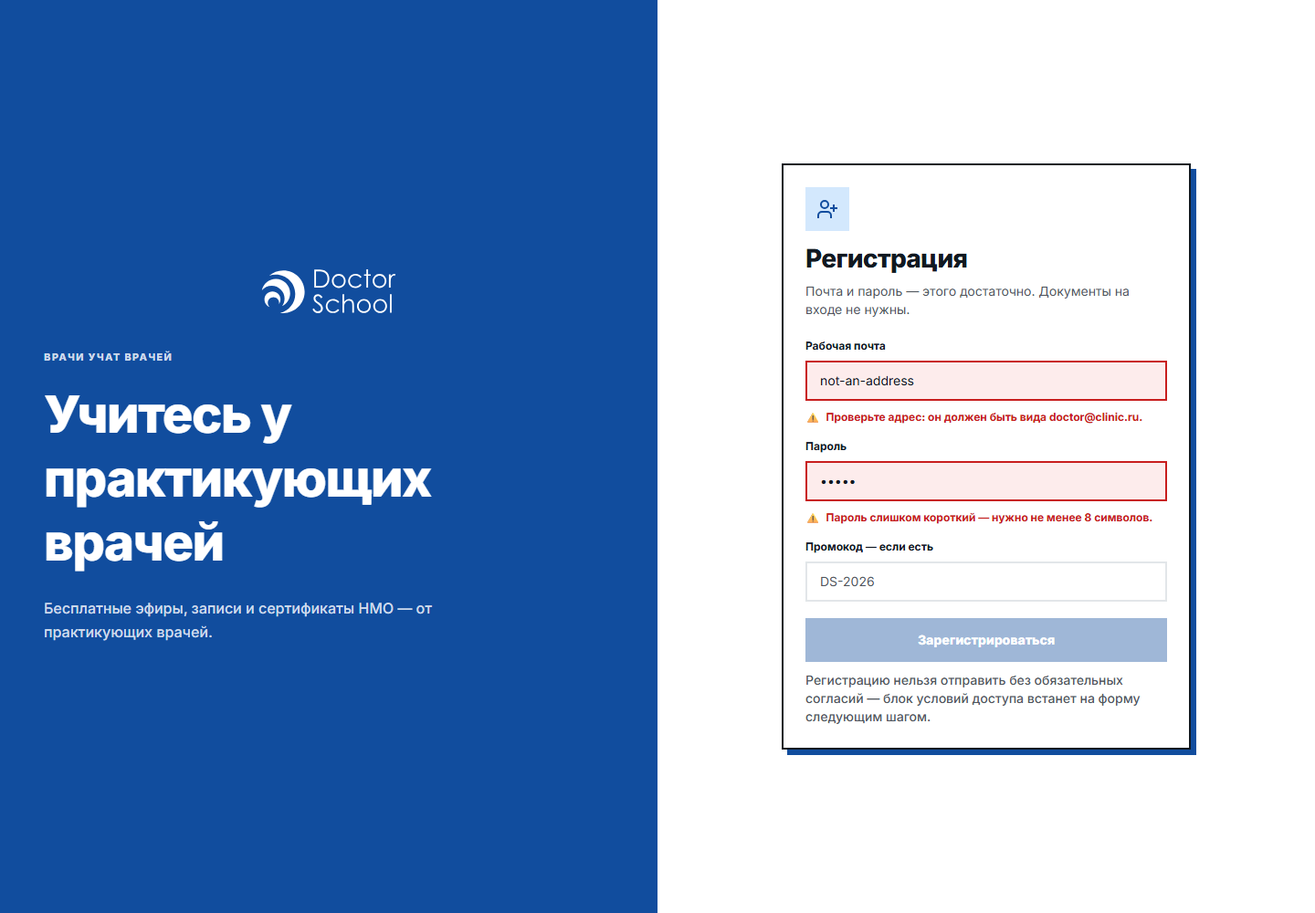
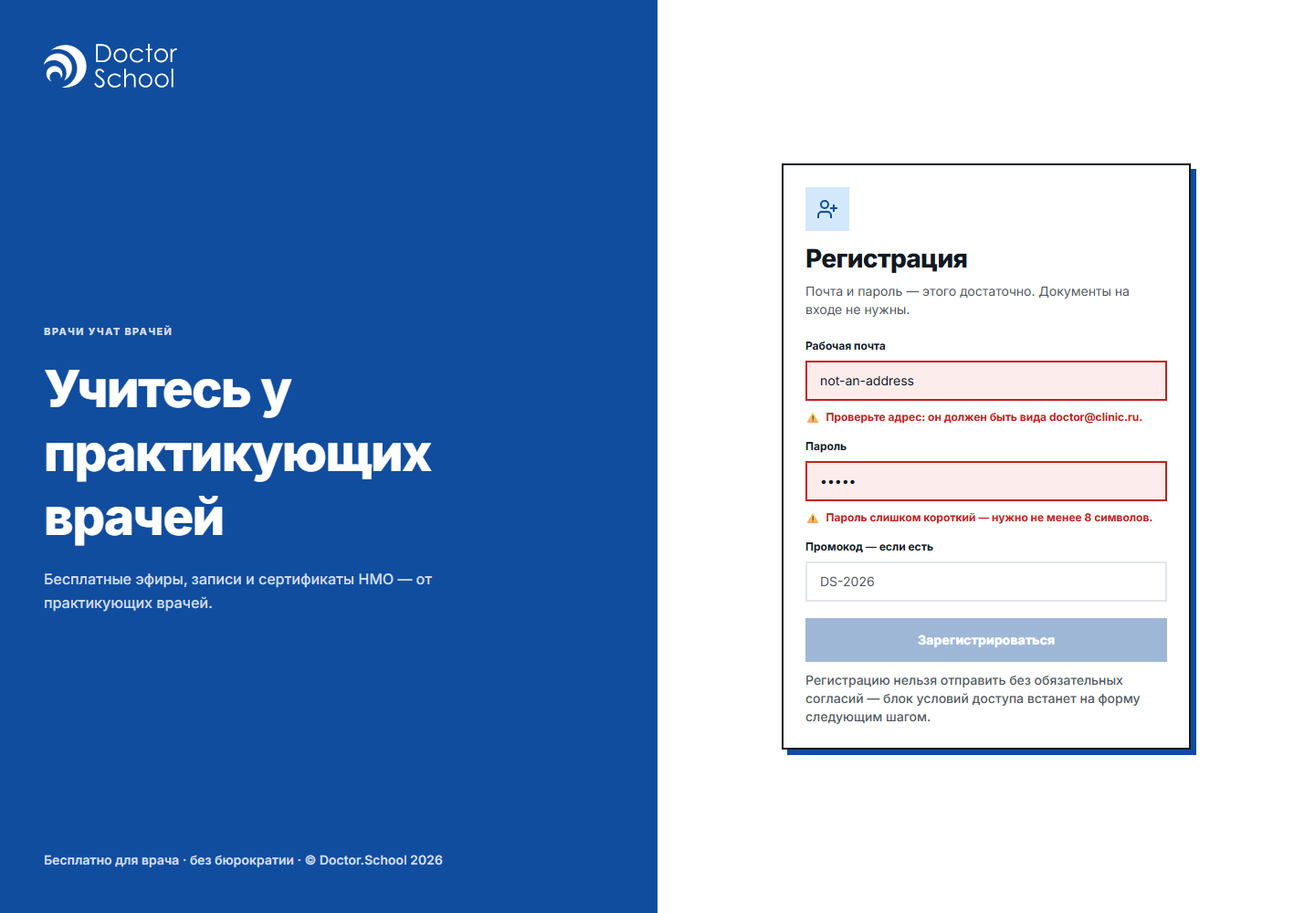
fix(1667): brand panel to canvas zones; one wordmark per viewport in the spec
Mode (a) rework on PR #1682.

- Brand panel rebuilt as the canvas's three zones: the mark pinned top-left
  (`self-start` — without it the aside's `align-items: stretch` widened the
  image box and painted the SVG centred), the value prop growing and centring
  between, and the canvas's closing line «Бесплатно для врача · без бюрократии ·
  © Doctor.School 2026» restored at the foot. It is panel content, not site
  chrome: it lives inside the brand surface and leaves with it at 390, so the
  route stays chromeless at every breakpoint.
- EARS-1 (en+ru), design §1, the scenario and the verification rows now state
  the composition the code renders and the tests pin: exactly ONE wordmark per
  viewport — the panel mark at and above `layout:`, the form-column lockup
  below it, where the panel does not render (#237/#275). The previous wording
  asserted a form-column wordmark that the block hides at desktop.
- New EARS-1.9 pins the three panel zones — mark at the panel top and flush
  left with the eyebrow, closing line at the foot, value prop between them.
- Desktop light/dark and the interactions frame re-shot; the mobile pair is
  byte-identical (the panel does not render there).

diff --git a/apps/doctor/components/auth-shell.tsx b/apps/doctor/components/auth-shell.tsx
@@ -6,9 +6,13 @@ import { AuthLayout } from "@ds/design-system/blocks";
 /**
  * `<AuthShell>` — the doctor-storefront auth frame: the CHROMELESS page the
  * `design-source/auth.dc.html` `#d-register` artboard draws. The canvas composes
- * the auth screens as a full-viewport split — brand panel beside a form column
- * that carries the wordmark at its top and the card centred on the vertical axis
- * — and it carries NO site header, navigation or footer. That absence is the
+ * the auth screens as a full-viewport split — a brand panel (mark pinned top-left,
+ * value prop centred in the remaining space, the panel's own footer line) beside a
+ * form column holding the card centred on the vertical axis — and it carries NO site
+ * header, navigation or footer. Exactly ONE wordmark shows per viewport (#237/#275):
+ * the panel mark above the `layout:` breakpoint, the form-column lockup below it,
+ * where the panel is not rendered at all — the canvas likewise draws its brand panel
+ * on the desktop artboard only. The chromelessness is the
  * design decision, not an omission: the door is a single-CTA surface, and the
  * storefront's own nav cluster would lead the doctor away from the form.
  *
@@ -59,35 +63,53 @@ export function AuthShell({ children }: { children: ReactNode }) {
         />
       }
       aside={
-        <div
-          data-testid="auth-brand-panel"
-          className="flex flex-1 flex-col justify-center"
-        >
-          {/* Decorative brand mark — the headline carries the accessible name,
-              so the panel logo is presentational (empty alt). */}
+        /* The canvas panel (`auth.dc.html`, brand panel) is a flex column of THREE
+           zones — mark, `flex:1` value-prop, footer — and `apps/portal` mirrors the
+           same three into the block's `justify-between` aside. This wrapper is that
+           column (it also carries the panel testid); it takes `flex-1` so it fills
+           the aside and distributes the zones itself. */
+        <div data-testid="auth-brand-panel" className="flex flex-1 flex-col">
+          {/* Zone 1 — decorative brand mark, pinned to the TOP of the panel and flush
+              LEFT exactly as the canvas pins it (`align-self:flex-start`): without
+              `self-start` the aside's default `align-items: stretch` widens the image
+              box to the column and the SVG paints centred, out of line with the
+              left-flush copy beneath it. The headline carries the accessible name, so
+              the mark is presentational (empty alt). */}
           <Image
             src="/brand/logo-white.svg"
             alt=""
             width={500}
             height={164}
             unoptimized
-            className="mb-10 h-12 w-auto"
+            className="h-12 w-auto self-start"
             data-testid="auth-panel-wordmark"
           />
-          <p className="mb-5 text-eyebrow font-extrabold uppercase tracking-micro text-primary-surface-muted">
-            Врачи учат врачей
-          </p>
-          <p className="max-w-lg text-4xl font-extrabold leading-tight tracking-tight text-balance">
-            Учитесь у практикующих врачей
-          </p>
-          <p className="mt-6 max-w-md text-base font-medium leading-relaxed text-primary-surface-muted">
-            {/*
-              The canvas reads «… от практикующих врачей 38 школ.» The count has
-              no source in the read model, and the 017 precedent
-              (`storefront-hero.tsx` / `scale-counters.tsx`) omits a counter with
-              no source rather than hardcoding one. Dropped, not zeroed.
-            */}
-            Бесплатные эфиры, записи и сертификаты НМО — от практикующих врачей.
+          {/* Zone 2 — value prop, growing into the space between mark and footer and
+              centring itself there, so the panel reads as the canvas's deliberate
+              three-zone split rather than a block with a void above it. */}
+          <div className="flex flex-1 flex-col justify-center gap-5">
+            <p className="text-eyebrow font-extrabold uppercase tracking-micro text-primary-surface-muted">
+              Врачи учат врачей
+            </p>
+            <p className="max-w-lg text-4xl font-extrabold leading-tight tracking-tight text-balance">
+              Учитесь у практикующих врачей
+            </p>
+            <p className="max-w-md text-base font-medium leading-relaxed text-primary-surface-muted">
+              {/*
+                The canvas reads «… от практикующих врачей 38 школ.» The count has
+                no source in the read model, and the 017 precedent
+                (`storefront-hero.tsx` / `scale-counters.tsx`) omits a counter with
+                no source rather than hardcoding one. Dropped, not zeroed.
+              */}
+              Бесплатные эфиры, записи и сертификаты НМО — от практикующих врачей.
+            </p>
+          </div>
+          {/* Zone 3 — panel footer, verbatim from the canvas. It is the panel's own
+              closing line, not site chrome: the route stays chromeless (no storefront
+              header/footer/nav), and this line lives inside the brand panel, which the
+              block renders only above `layout:`. */}
+          <p className="text-sm font-semibold text-primary-surface-muted">
+            Бесплатно для врача · без бюрократии · © Doctor.School 2026
           </p>
         </div>
       }

diff --git a/apps/doctor/e2e/register-layout.spec.ts b/apps/doctor/e2e/register-layout.spec.ts
@@ -250,6 +250,57 @@ test.describe("021 EARS-1: the vertical axis", () => {
       `vertical centring: ${above}px above vs ${below}px below`,
     ).toBeLessThanOrEqual(48);
   });
+
+  test("021 EARS-1.9: the brand panel is the canvas's three zones — mark pinned top-left, value prop centred, closing line at the foot", async ({
+    page,
+  }) => {
+    await page.goto("/register");
+
+    const panel = page.getByTestId("auth-brand-panel");
+    const mark = page.getByTestId("auth-panel-wordmark");
+    const eyebrow = panel.getByText("Врачи учат врачей");
+    const closing = panel.getByText(
+      "Бесплатно для врача · без бюрократии · © Doctor.School 2026",
+    );
+
+    await expect(closing).toBeVisible();
+
+    const panelBox = (await panel.boundingBox())!;
+    const markBox = (await mark.boundingBox())!;
+    const eyebrowBox = (await eyebrow.boundingBox())!;
+    const closingBox = (await closing.boundingBox())!;
+
+    // Zone 1 — the mark sits at the TOP of the panel, not mid-panel. The canvas
+    // pins it with `align-self:flex-start`; a centred mark would leave a void
+    // above it, which at this height is hundreds of px, so a generous bound
+    // still separates the two layouts decisively.
+    expect(
+      markBox.y - panelBox.y,
+      `mark top offset inside the panel: ${markBox.y - panelBox.y}px`,
+    ).toBeLessThanOrEqual(80);
+
+    // …and FLUSH LEFT, in line with the copy beneath it. Without `self-start`
+    // the stretched image box centres the SVG and this alignment breaks.
+    expect(
+      Math.abs(markBox.x - eyebrowBox.x),
+      `mark left ${markBox.x}px vs eyebrow left ${eyebrowBox.x}px`,
+    ).toBeLessThanOrEqual(2);
+
+    // Zone 3 — the closing line is the panel's own last zone, at its foot. It is
+    // panel content, not site chrome: 1.4 separately pins that no `footer`
+    // element exists anywhere in the document, and 1.7 that it leaves with the
+    // panel at 390.
+    const belowClosing = panelBox.y + panelBox.height - (closingBox.y + closingBox.height);
+    expect(
+      belowClosing,
+      `space under the closing line: ${belowClosing}px`,
+    ).toBeLessThanOrEqual(80);
+
+    // Zone 2 — the value prop occupies the space between them, so the mark and
+    // the closing line are genuinely separated rather than stacked.
+    expect(closingBox.y).toBeGreaterThan(eyebrowBox.y);
+    expect(eyebrowBox.y).toBeGreaterThan(markBox.y + markBox.height);
+  });
 });
 
 test.describe("021 EARS-1: the 390 collapse", () => {

diff --git a/apps/docs/content/specs/features/021-doctor-registration/021-requirements-ru.md b/apps/docs/content/specs/features/021-doctor-registration/021-requirements-ru.md
@@ -213,7 +213,7 @@ lang: ru
 
 > Плоская нумерация по ADR-0006 §4. Каждый пункт покрыт в `021-scenarios.feature`, и каждый реализует одну или несколько историй PRD, кроме **EARS-19**: он владеет обязательством, унаследованным от фичи 003, а не пользовательской историей, и прямо говорит это вместо трассы `realizes:`.
 
-- **EARS-1** _(realizes: US-1, US-2, US-22)_ — Когда посетитель открывает `#d-register` на `doctor.school`, витрина должна отрисовать поверхность регистрации бесхромной сплит-композицией завендоренного канваса `auth` — маршрутом приложения витрины **вне** оболочки фичи 017, **без шапки, навигации и подвала витрины вообще**, с вордмарком над колонкой формы и карточкой, выровненной по центру вертикали, — `access: public`, запрашивая **почту, пароль и необязательный промокод и ничего больше** — ни контрола загрузки, ни поля файла, ни диплома, ни СНИЛС, ни связанного с документами копирайта ни в одном состоянии поверхности, — собранной из примитивов `@ds/design-system` со стилизацией только токенами и состояниями поля, фокуса и валидации из канваса, не определяя собственных шапки, навигации и подвала — дверь это поверхность одного CTA, и любой блок уводящих ссылок на ней уводит врача от формы, — и не держа частной копии ни примитива формы, ни рамки авторизации, которую уже рисует Академия.
+- **EARS-1** _(realizes: US-1, US-2, US-22)_ — Когда посетитель открывает `#d-register` на `doctor.school`, витрина должна отрисовать поверхность регистрации бесхромной сплит-композицией завендоренного канваса `auth` — маршрутом приложения витрины **вне** оболочки фичи 017, **без шапки, навигации и подвала витрины вообще**, отрисовывая ровно **один вордмарк на вьюпорт** — прижатым к верхнему краю брендовой панели на широкой раскладке и над карточкой в колонке формы на узкой, где панель не рисуется вовсе, — и карточкой, выровненной по центру вертикали колонки формы, — `access: public`, запрашивая **почту, пароль и необязательный промокод и ничего больше** — ни контрола загрузки, ни поля файла, ни диплома, ни СНИЛС, ни связанного с документами копирайта ни в одном состоянии поверхности, — собранной из примитивов `@ds/design-system` со стилизацией только токенами и состояниями поля, фокуса и валидации из канваса, не определяя собственных шапки, навигации и подвала — дверь это поверхность одного CTA, и любой блок уводящих ссылок на ней уводит врача от формы, — и не держа частной копии ни примитива формы, ни рамки авторизации, которую уже рисует Академия.
 - **EARS-2** _(realizes: US-3, US-22)_ — Когда врач приходит с гейта контента (`fromGate`), поверхность должна отрисовать **точку интереса в левой половине сплита** по F-021-2, показав урок, эфир или билет, за которым он пришёл, **общим юнитом карточки события, которым владеет фича 018**, без локальной перереализации, должна **не рисовать на этой карточке кнопки возврата** (явное условие владельца к выбору), должна простыми словами сказать, куда врач вернётся, и ниже мобильной точки должна отрисовать ту же карточку фоновой плашкой канваса над формой.
 - **EARS-3** _(realizes: US-5)_ — Когда посетитель открывает маршрут регистрации **без точки интереса**, элемент левой половины должен **отсутствовать в дереве, а не рендериться пустым**, форма должна оставаться полностью работоспособной, а регистрация — завершаться в определённую цель LD-4 (лента специальности врача, с откатом на главную витрины, если специальность ещё не выбрана) и никогда — в мёртвый возврат, пустую рамку карточки или кабинет по умолчанию.
 - **EARS-4** _(realizes: US-6)_ — Поверхность должна нести **обязательную галочку «Я являюсь медицинским работником»** как предусловие регистрации, сопровождённую утверждением простым языком, что подтверждение — требование закона для части материалов, **без формы «спросим позже», без частичного варианта и без пути, завершающего регистрацию без неё**; галочка должна быть **декларацией, а не верификацией** — под неё не запрашивается документ, а контент, требующий подтверждённого статуса медработника, остаётся закрыт верификацией, специфицированной в фичах 022 / 037.
@@ -255,7 +255,7 @@ lang: ru
 
 | EARS | Тип теста                             | Ориентировочная цель                                                                                                     | Требуемое доказательство                                                                                                                                                                                                                                                                                                                                                        |
 | ---- | ------------------------------------- | ------------------------------------------------------------------------------------------------------------------------ | ------------------------------------------------------------------------------------------------------------------------------------------------------------------------------------------------------------------------------------------------------------------------------------------------------------------------------------------------------------------------------- |
-| 1    | Playwright + скан дерева              | `apps/doctor/e2e/register-layout.spec.ts`                                                                                | Маршрут рисует бесхромную сплит-композицию — ни шапки, ни навигации, ни подвала в дереве, вордмарк на месте, карточка по центру вертикали; ровно три поля ввода; полнотекстовый и DOM-скан не находит ни поля файла, ни копирайта про документы ни в одном состоянии.                                                                                                           |
+| 1    | Playwright + скан дерева              | `apps/doctor/e2e/register-layout.spec.ts`                                                                                | Маршрут рисует бесхромную сплит-композицию — ни шапки, ни навигации, ни подвала в дереве, ровно один вордмарк на вьюпорт (марка брендовой панели на широкой раскладке, локап колонки формы на узкой), карточка по центру вертикали; ровно три поля ввода; полнотекстовый и DOM-скан не находит ни поля файла, ни копирайта про документы ни в одном состоянии.                  |
 | 2    | Playwright + Vitest unit              | `apps/doctor/e2e/register-return-context.spec.ts`, `packages/design-system/test/event-card.spec.tsx`                     | При `fromGate` карточка рисуется в левой половине сплита общим юнитом 018; **кнопки возврата в поддереве карточки нет**; на 390 карточка рисуется фоновой плашкой над формой.                                                                                                                                                                                                   |
 | 3    | Playwright + Vitest e2e               | `apps/doctor/e2e/register-direct.spec.ts`, `apps/api/test/storefront/doctor-register.e2e-spec.ts`                        | Без цели возврата элемент точки интереса отсутствует в DOM (не пустая рамка); регистрация завершается; приземление — лента специальности, главная при невыбранной специальности и никогда не кабинет.                                                                                                                                                                           |
 | 4    | Playwright + Vitest e2e               | `apps/doctor/e2e/register-medworker.spec.ts`, `apps/api/test/storefront/doctor-register-consents.e2e-spec.ts`            | Галочка присутствует с пояснением; команда отклоняется на сервере при её отсутствии; аффорданса «спросим позже» нет; путь декларации не запрашивает документа.                                                                                                                                                                                                                  |

diff --git a/apps/docs/content/specs/features/021-doctor-registration/021-requirements-en.md b/apps/docs/content/specs/features/021-doctor-registration/021-requirements-en.md
@@ -213,7 +213,7 @@ Each records a call the PRD left open. They are lead decisions in the AGENTS.md 
 
 > Flat numbering per ADR-0006 §4. Every clause is covered by `021-scenarios.feature`, and every clause realizes one or more PRD stories except **EARS-19**, which owns an obligation inherited from feature 003 rather than a user story and says so in place of a `realizes:` trace.
 
-- **EARS-1** _(realizes: US-1, US-2, US-22)_ — When a visitor opens `#d-register` on `doctor.school`, the storefront shall render the registration surface as the vendored `auth` canvas's chromeless split-screen composition — a route of the storefront app that stands **outside** feature 017's shell, carrying **no storefront header, navigation or footer at all**, with the wordmark above the form column and the card centred on the vertical axis — `access: public`, asking for **an email, a password and an optional promo code and nothing else** — no document upload, file input, diploma, СНИЛС or document-related copy shall exist in any state of the surface — built from `@ds/design-system` primitives with tokens-only styling and the canvas's field, focus and validation states, defining no header, navigation or footer of its own — the door is a single-CTA surface and any onward-link cluster on it leads the doctor away from the form — and holding no private copy of a form primitive or of the auth frame the Academy already renders.
+- **EARS-1** _(realizes: US-1, US-2, US-22)_ — When a visitor opens `#d-register` on `doctor.school`, the storefront shall render the registration surface as the vendored `auth` canvas's chromeless split-screen composition — a route of the storefront app that stands **outside** feature 017's shell, carrying **no storefront header, navigation or footer at all**, rendering exactly **one wordmark per viewport** — pinned to the top edge of the brand panel on the wide layout, above the card in the form column on the narrow layout where the panel does not render — and the card centred on the vertical axis of the form column — `access: public`, asking for **an email, a password and an optional promo code and nothing else** — no document upload, file input, diploma, СНИЛС or document-related copy shall exist in any state of the surface — built from `@ds/design-system` primitives with tokens-only styling and the canvas's field, focus and validation states, defining no header, navigation or footer of its own — the door is a single-CTA surface and any onward-link cluster on it leads the doctor away from the form — and holding no private copy of a form primitive or of the auth frame the Academy already renders.
 - **EARS-2** _(realizes: US-3, US-22)_ — When a doctor arrives from a content gate (`fromGate`), the surface shall render the **return context in the left half of the split** per F-021-2, showing the lesson, эфир or ticket they came for through the **shared event-card unit feature 018 owns** with no screen-local re-implementation, shall render **no back-navigation control on that card** (the owner's explicit condition on the pick), shall state plainly what the doctor will return to, and shall render the same card as the canvas's background plate above the form below the mobile breakpoint.
 - **EARS-3** _(realizes: US-5)_ — When a visitor opens the registration route with **no return context**, the left half's context element shall be **absent from the tree rather than rendered empty**, the form shall remain fully usable, and registration shall complete to the defined destination of LD-4 — the doctor's specialty feed, falling back to the storefront home when no specialty has been chosen — and never to a dead return, an empty card frame or the account page as a default.
 - **EARS-4** _(realizes: US-6)_ — The surface shall carry a **mandatory «Я являюсь медицинским работником» checkbox** as a precondition of registration, accompanied by a plain-language statement that confirmation is a legal requirement for part of the materials, with **no «ask later» form, no partial variant and no path that completes registration without it**; the checkbox shall be a **declaration, not verification** — no document is requested to support it, and content that requires confirmed medical-worker status stays gated on the verification specified in features 022 / 037.
@@ -255,7 +255,7 @@ Each records a call the PRD left open. They are lead decisions in the AGENTS.md 
 
 | EARS | Test type                           | Indicative target                                                                                                        | Required proof                                                                                                                                                                                                                                                                                                                                                                                                         |
 | ---- | ----------------------------------- | ------------------------------------------------------------------------------------------------------------------------ | ---------------------------------------------------------------------------------------------------------------------------------------------------------------------------------------------------------------------------------------------------------------------------------------------------------------------------------------------------------------------------------------------------------------------- |
-| 1    | Playwright + tree scan              | `apps/doctor/e2e/register-layout.spec.ts`                                                                                | Route renders the chromeless split composition — no header, nav or footer in the tree, wordmark present, card centred on the vertical axis; exactly three inputs (email, password, promo code); a full-text + DOM scan finds no file input and no document copy in any state.                                                                                                                                          |
+| 1    | Playwright + tree scan              | `apps/doctor/e2e/register-layout.spec.ts`                                                                                | Route renders the chromeless split composition — no header, nav or footer in the tree, exactly one wordmark for the viewport (brand-panel mark on the wide layout, form-column lockup on the narrow one), card centred on the vertical axis; exactly three inputs (email, password, promo code); a full-text + DOM scan finds no file input and no document copy in any state.                                         |
 | 2    | Playwright + Vitest unit            | `apps/doctor/e2e/register-return-context.spec.ts`, `packages/design-system/test/event-card.spec.tsx`                     | With `fromGate`, the card renders in the split's left half from 018's shared unit; **no back-navigation control exists in the card subtree**; at 390 the card renders as the background plate above the form.                                                                                                                                                                                                          |
 | 3    | Playwright + Vitest e2e             | `apps/doctor/e2e/register-direct.spec.ts`, `apps/api/test/storefront/doctor-register.e2e-spec.ts`                        | With no return target the context element is absent from the DOM (not an empty frame); registration completes; the landing is the specialty feed, the home when no specialty is chosen, and never the account page.                                                                                                                                                                                                    |
 | 4    | Playwright + Vitest e2e             | `apps/doctor/e2e/register-medworker.spec.ts`, `apps/api/test/storefront/doctor-register-consents.e2e-spec.ts`            | The checkbox is present with its explanation; the command is refused server-side when it is absent; no «ask later» affordance exists; no document is requested by the declaration path.                                                                                                                                                                                                                                |

diff --git a/apps/docs/content/specs/features/021-doctor-registration/021-design.md b/apps/docs/content/specs/features/021-doctor-registration/021-design.md
@@ -11,7 +11,7 @@ lang: en
 
 ## 1. Route topology and screen composition
 
-`#d-register` is a public route of `apps/doctor` on `doctor.school`, rendered CHROMELESS — outside feature 017's shell, with no storefront header, navigation or footer. The route lives in the app's `(auth)` route group, a sibling of `(storefront)`, so the 017 layout is never in its tree. That is the canvas composition and the product reason behind it: the door is a single-CTA surface, and the shell's onward-link cluster leads the doctor away from the form they came to fill. The frame is the `auth` canvas's split screen taken unchanged — brand panel beside a form column that carries the wordmark at its top and the card centred on the vertical axis — realized through `@ds/design-system`'s `AuthLayout` block wrapped by a doctor-local `AuthShell`, the mirror of the Academy's own auth frame (the two are lifted into one shared shell by the follow-on Issue). 021 changes what fills the split's left half and what stands around the submit button.
+`#d-register` is a public route of `apps/doctor` on `doctor.school`, rendered CHROMELESS — outside feature 017's shell, with no storefront header, navigation or footer. The route lives in the app's `(auth)` route group, a sibling of `(storefront)`, so the 017 layout is never in its tree. That is the canvas composition and the product reason behind it: the door is a single-CTA surface, and the shell's onward-link cluster leads the doctor away from the form they came to fill. The frame is the `auth` canvas's split screen taken unchanged — a brand panel of three zones (the wordmark pinned to its top edge and flush left, the value prop centred in the space below it, the panel's own closing line «Бесплатно для врача · без бюрократии · © Doctor.School 2026» at the bottom) beside a form column that holds the card centred on the vertical axis. Exactly ONE wordmark renders per viewport, never two: the brand-panel mark at and above the `layout` breakpoint (901px), the form-column lockup below it, where the panel does not render at all — the canvas likewise draws its brand panel on the desktop artboard only, and the design system's block owns the rule (#237/#275). The panel's closing line is panel content, not site chrome: it lives inside the brand surface and disappears with it on the narrow layout, so the route stays chromeless at every breakpoint. Realized through `@ds/design-system`'s `AuthLayout` block wrapped by a doctor-local `AuthShell`, the mirror of the Academy's own auth frame (the two are lifted into one shared shell by the follow-on Issue). 021 changes what fills the split's left half and what stands around the submit button.
 
 | Region                   | Content                                                                                       | Stage-A pick                        |
 | ------------------------ | --------------------------------------------------------------------------------------------- | ----------------------------------- |
